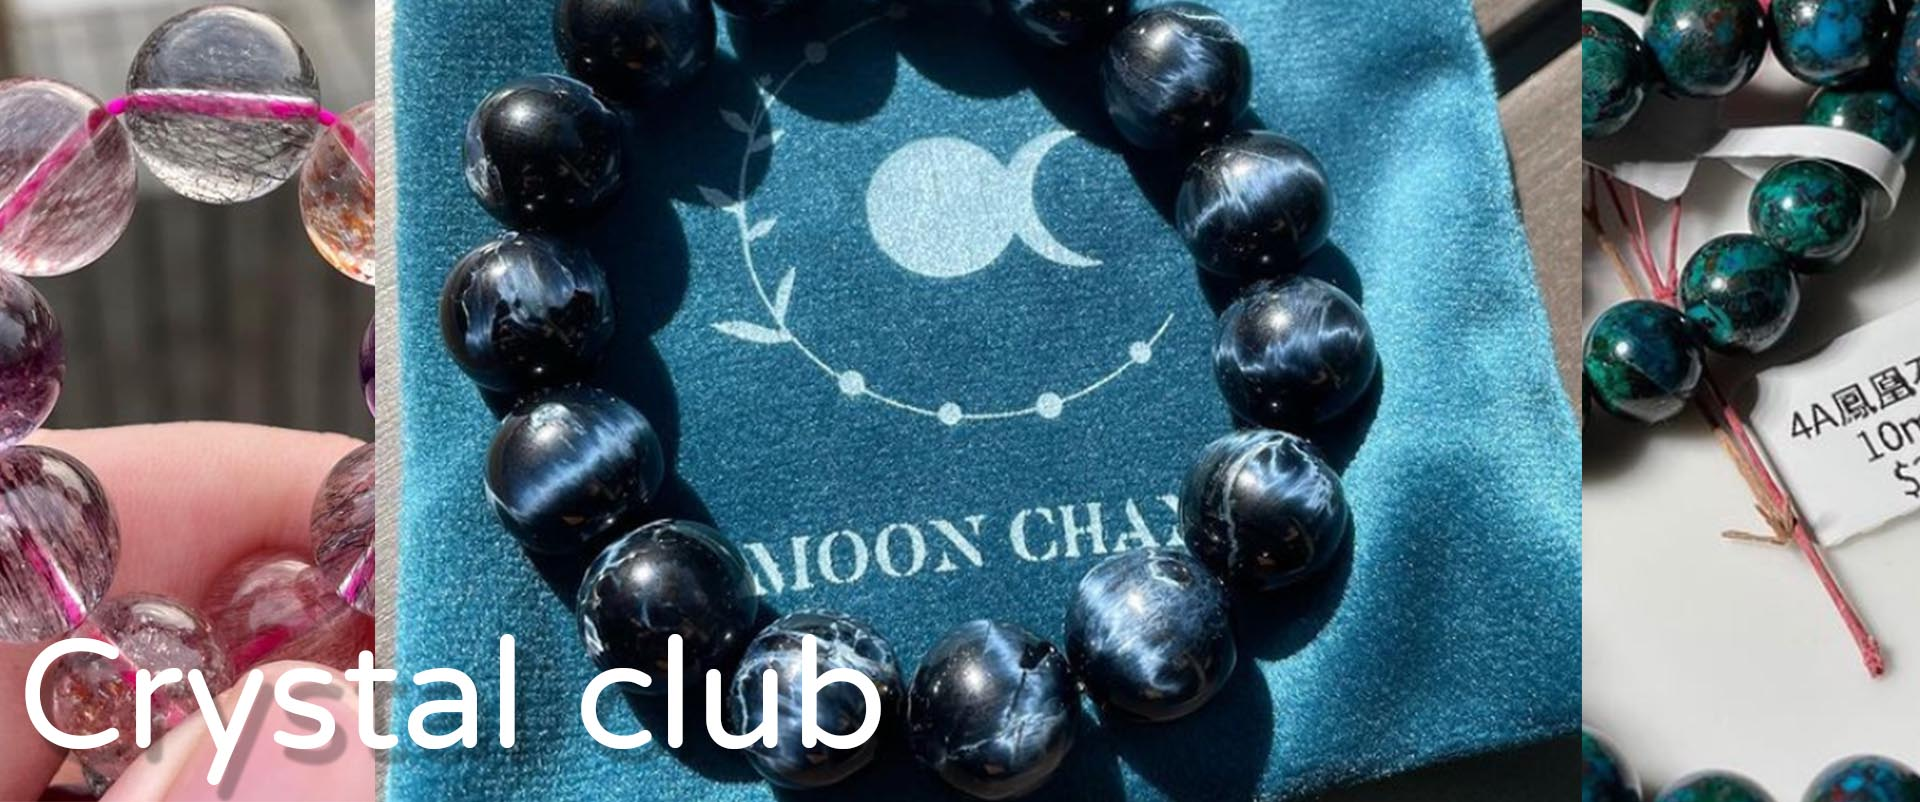
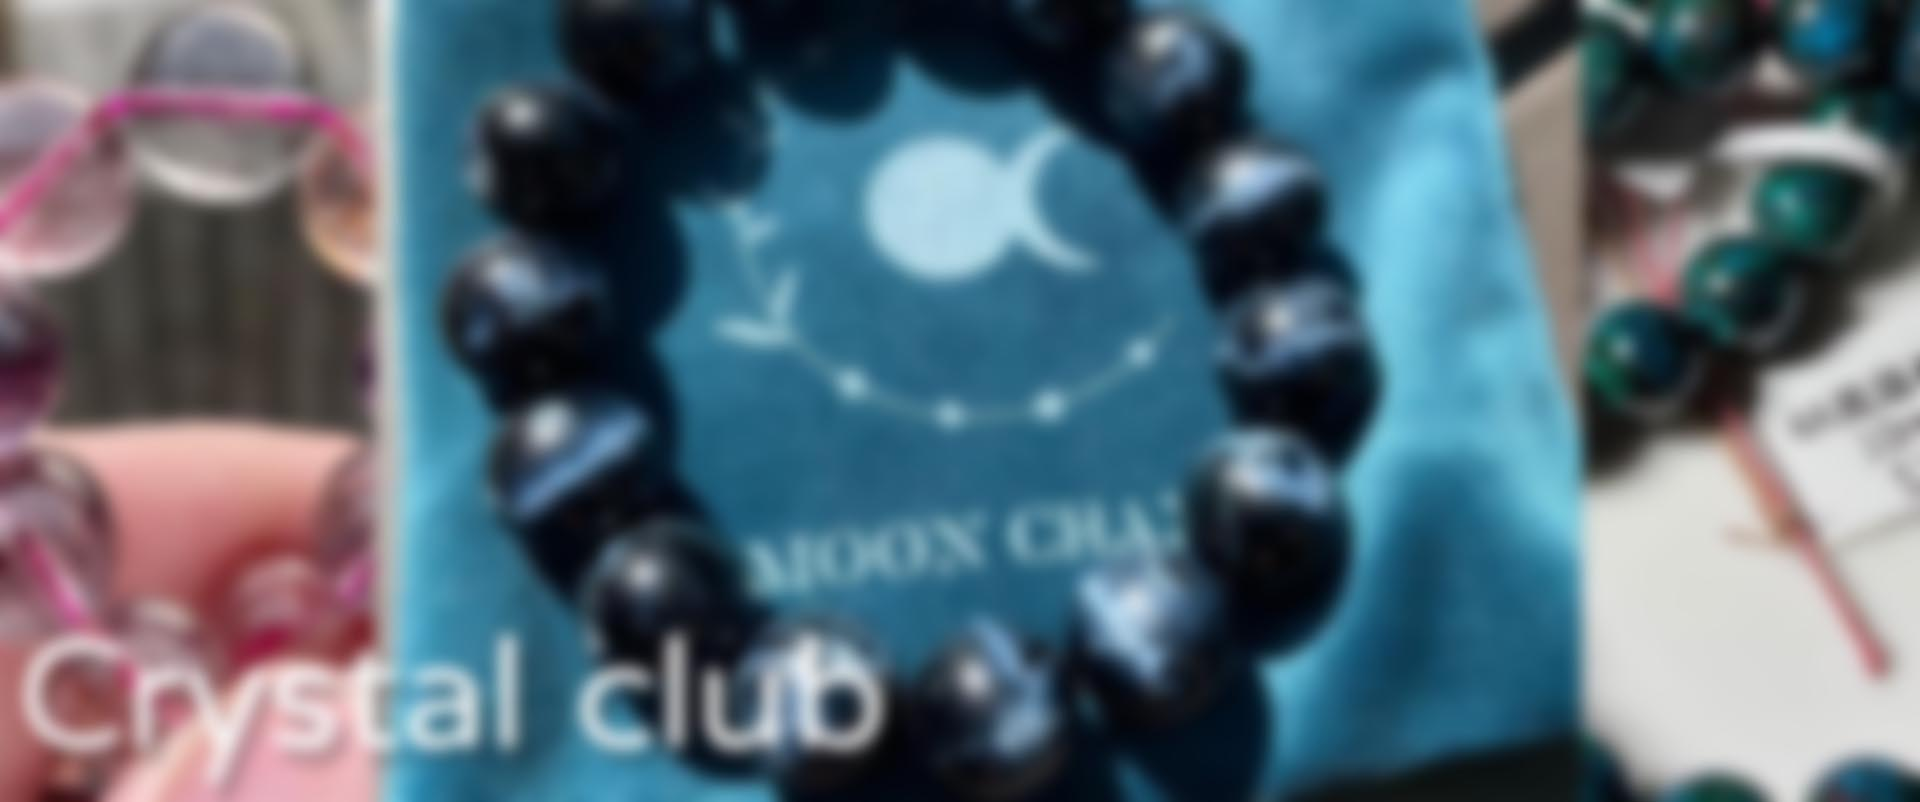
update

diff --git a/hw/moreInfo.html b/hw/moreInfo.html
@@ -1,0 +1,134 @@
+<!DOCTYPE html>
+<html lang="en">
+<head>
+    <meta charset="UTF-8">
+    <meta http-equiv="X-UA-Compatible" content="IE=edge">
+    <meta name="viewport" content="width=device-width, initial-scale=1.0">
+    <title>Crystal club - about us</title>
+
+    <link rel="stylesheet" href="https://fonts.googleapis.com/css?family=Audiowide">
+    <link rel="stylesheet" href="./css/page.css">
+</head>
+<body>
+    
+    <div class="headingNav">
+        <div style="display: flex; align-items: center; width: 50%;">
+            <img src="./image/logoMoon.png" alt="" width="80px" height="auto" >
+
+            <div>
+                <h1 class="headingClass" ><a href="./index.html" class="selectClass">Moonchant Crystal</a></h1>
+                <h4 style="margin-top: -30px;">Your crystal interest club</h4>
+            </div>
+
+        </div>
+    
+        <div style="display: flex; justify-content: space-around;">
+    
+            <h3 style="margin-right: 15px;">
+                <a href="./aboutus.html" class="selectClass">About us</a>
+            </h3>
+    
+            <h3 style="margin-right: 15px;">
+                <a href="./gallery.html" class="selectClass">Gallery</a>
+            </h3>
+    
+            <h3 style="margin-right: 15px;">
+                <a href="./contact.html" class="selectClass">Contact</a>
+            </h3>
+
+            <h3 style="margin-right: 15px;"> 
+                <a href="./playZone.html" class="selectClass">PlayZone</a>
+            </h3>
+
+            <h3 style="margin-right: 15px;">
+                <a href="./findStone.html" class="selectClass">Blog</a>
+            </h3>
+
+            <h3>
+                <a href="./moreInfo.html" class="selectClass">Introduce</a>
+            </h3>
+    
+        </div>
+            
+    </div>
+
+    <div class="contectSection paddClass">
+
+        <div style="display: flex; justify-content: space-around; flex-wrap: wrap; margin-top: 50px; margin-bottom: 50px;">
+
+            <div style="width: 500px;">
+                <img src="./image/dm1.jpg" alt="" width="500px" height="500px" style="border-radius: 25px;">
+            </div>
+
+            <div style="width: 50%;">
+                <h1 style="text-align: center; color: white; font-size: 5vw;" >閃靈鑽咩黎？</h1>
+                <h3 style="text-align: center; font-size: 2vw;">
+                    閃靈鑚又稱海基瑪/赫基蒙鑽石，以往產自紐約赫基蒙地區，其後亦在巴基斯坦發現。有一説只有紐約赫基蒙出產才可稱作閃靈鑽，當中爭議本篇不作詳述。
+                </h3>
+            </div>
+
+        </div>
+
+        <hr>
+
+        <div style="display: flex; justify-content: space-around; flex-wrap: wrap; margin-top: 50px; margin-bottom: 50px;">
+
+            <div style="width: 50%;">
+                <h1 style="text-align: center; color: white; font-size: 5vw;" >有咩用？</h1>
+                <h3 style="text-align: center; font-size: 2vw;">
+                    傳說在亞特蘭提斯時期人們會利用閃靈鑽作治療之用。由於閃靈鑽頻率極高，有助清除能量阻塞，促進身體療癒的效果。現時亦有利用閃露鑽加水噴在水晶上作淨化。（算係新興方法）
+                </h3>
+            </div>
+
+            <div style="width: 500px;">
+                <img src="./image/dm2.jpg" alt="" width="500px" height="500px" style="border-radius: 25px;">
+            </div>
+
+        </div>
+
+        <hr>
+
+        <div style="display: flex; justify-content: space-around; flex-wrap: wrap; margin-top: 50px; margin-bottom: 50px;">
+
+            <div style="width: 500px;">
+                <img src="./image/dm3.jpg" alt="" width="500px" height="500px" style="border-radius: 25px;">
+            </div>
+
+            <div style="width: 50%;">
+                <h1 style="text-align: center; color: white; font-size: 5vw;" >點為之上品嘅閃靈鑽？</h1>
+                <h3 style="text-align: center; font-size: 2vw;">
+                    主要從晶體清晰度、水膽及巴基斯坦獨有的油膽作參考。 晶體愈清，其質素愈高。而晶體中橫紋多為上品。(有齊油膽、水膽同時晶清算係收藏級）
+                </h3>
+            </div>
+
+        </div>
+
+        <hr>
+
+        <div style="display: flex; justify-content: space-around; flex-wrap: wrap; margin-top: 50px; margin-bottom: 50px;">
+
+            <div style="width: 50%;">
+                <h1 style="text-align: center; color: white; font-size: 5vw;" >水膽</h1>
+                <h3 style="text-align: center; font-size: 2vw;">
+                    晶體裏有水珠在內晃動的感覺，實際上水珠是二氧化碳在二相包裹體的效果。
+                </h3>
+            </div>
+
+            <div style="width: 500px;">
+                <img src="./image/water5.png" alt="" width="500px" height="500px" style="border-radius: 25px;">
+            </div>
+
+        </div>
+
+    </div>
+  
+    <div class="footerClass">
+
+        <div class="paddClass">
+            <h4 style="color: black; margin: 0;">ITE3006: IT Essentials - Web</h4>
+        </div>
+
+    </div>
+    
+</body>
+</html>

diff --git a/hw/index.html b/hw/index.html
@@ -42,8 +42,12 @@
                 <a href="./playZone.html" class="selectClass">PlayZone</a>
             </h3>
 
+            <h3 style="margin-right: 15px;">
+                <a href="./findStone.html" class="selectClass">Blog</a>
+            </h3>
+
             <h3>
-                <a href="./findStone.html" class="selectClass">Search</a>
+                <a href="./moreInfo.html" class="selectClass">Introduce</a>
             </h3>
     
         </div>
@@ -76,46 +80,49 @@
         <div style="display: flex; justify-content: space-around; flex-wrap: wrap;">
 
             <div style="text-align: center;">
-               <h1>Some Data</h1>
-               <img src="./image/caro.jpg" width="300px" height="300px" style="border-radius: 50%;" alt="">
-               <h1>Some text</h1>
+               <h1>手鏈</h1>
+               <img src="./image/ind2.jpg" width="300px" height="300px" style="border-radius: 50%;" alt="">
+               <h1>成為矚目焦點</h1>
             </div>
             
             <div style="text-align: center;">
-                <h1>Some Data</h1>
-                <img src="./image/caro.jpg" width="300px" height="300px" style="border-radius: 50%;" alt="">
-                <h1>Some text</h1>
+                <h1>原石</h1>
+                <img src="./image/ind3.jpg" width="300px" height="300px" style="border-radius: 50%;" alt="">
+                <h1>裝點生活空間</h1>
             </div>
             
             <div style="text-align: center;">
-                <h1>Some Data</h1>
-                <img src="./image/caro.jpg" width="300px" height="300px" style="border-radius: 50%;" alt="">
-                <h1>Some text</h1>
+                <h1>珠寶</h1>
+                <img src="./image/ind1.jpg" width="300px" height="300px" style="border-radius: 50%;" alt="">
+                <h1>巧奪天工的美鑽珠寶</h1>
             </div>
 
         </div>
 
     </div>
 
-    <div class="bottomSection">
+    <div class="bottomSection" style="margin-top: 10px;">
 
         <div style="display: flex; align-items: center;">
       
             <div>
-                <h1 style="text-align: left; color: white; font-size: 7vw; margin: 0;">Welcome there!</h1>
-                <h1 style="text-align: left; margin-top: -15px;">We are crystal interest club.</h1>
-                <h1 style="text-align: left; margin-top: -10px;">- 定期專業水晶專題</h1>
-                <h1 style="text-align: left; margin-top: -10px;">- 不定期水晶直播</h1> 
+                <h1 style="text-align: left; color: white; font-size: 7vw; margin: 0;">𝕸𝖔𝖔𝖓 𝕮𝖍𝖆𝖓𝖐❥月亮頌🌙</h1>
             </div>
 
         </div> 
 
         <div style="width: 500px; height: auto;">
             <img src="./image/WhatsApp Image 2021-11-21 at 23.05.44.png" alt="" width="100%" height="auto"> 
-        </div>  
+        </div> 
 
+        
     </div>
-
+    
+    <div style="padding-bottom: 50px; text-align: center;">
+        <a href="./findStone.html">
+            <h1 style="text-align: center; color: white; font-size: 6vw; margin: 0;">See more</h1>
+        </a>
+    </div>
     <div class="footerClass">
 
         <div class="paddClass">

diff --git a/hw/gallery.html b/hw/gallery.html
@@ -40,8 +40,12 @@
                 <a href="./playZone.html" class="selectClass">PlayZone</a>
             </h3>
 
+            <h3 style="margin-right: 15px;">
+                <a href="./findStone.html" class="selectClass">Blog</a>
+            </h3>
+
             <h3>
-                <a href="./findStone.html" class="selectClass">Search</a>
+                <a href="./moreInfo.html" class="selectClass">Introduce</a>
             </h3>
     
         </div>
@@ -60,11 +64,11 @@
         <div class="bottomSection" style="margin-top: 50px;">
             <img src="./image/WhatsApp Image 2021-11-21 at 23.05.45.jpeg" alt="" width="500px" height="500px">
             <img src="./image/WhatsApp Image 2021-11-21 at 23.05.42 (1).jpeg" alt="" width="500px" height="500px">
-            <img src="./image/WhatsApp Image 2021-11-21 at 23.05.48.jpeg" alt="" width="500px" height="500px">
+            <img src="./image/WhatsApp Image 2021-11-21 at 23.05.39.jpeg" alt="" width="500px" height="500px">
         </div>
 
         <h1 class="paddClass">Video:</h1>
-        <iframe width="100%" height="900px" src="https://www.youtube.com/embed/O_vMqGuoxv8" title="YouTube video player" frameborder="0" allow="accelerometer; autoplay; clipboard-write; encrypted-media; gyroscope; picture-in-picture" allowfullscreen></iframe>
+        <iframe width="100%" height="900px" src="https://www.youtube.com/embed/yuHbb9hBVqo" title="YouTube video player" frameborder="0" allow="accelerometer; autoplay; clipboard-write; encrypted-media; gyroscope; picture-in-picture" allowfullscreen></iframe>
     </div>
 
     

diff --git a/hw/playZone.html b/hw/playZone.html
@@ -40,8 +40,12 @@
                 <a href="./playZone.html" class="selectClass">PlayZone</a>
             </h3>
 
+            <h3 style="margin-right: 15px;">
+                <a href="./findStone.html" class="selectClass">Blog</a>
+            </h3>
+
             <h3>
-                <a href="./findStone.html" class="selectClass">Search</a>
+                <a href="./moreInfo.html" class="selectClass">Introduce</a>
             </h3>
     
         </div>
@@ -51,6 +55,10 @@
     <div class="contectSection paddClass">  
     </div>
     <canvas id="myCanvas"></canvas>
+
+    <div style="display:none;">
+        <img id="source" src="./image/caro.jpg" width="300" height="227" style="filter: blur(8px);">
+    </div>
 
    
 

diff --git a/hw/js/findStone.js b/hw/js/findStone.js
@@ -12,7 +12,6 @@ let data = [
   { name: "新手指南: 金草莓？", title: "係我眼中都係愛不惜手嘅寶貝✨實在冇必要因為咁而傷和氣呢～", url: "https://www.instagram.com/p/CPxtIR1jme8/", imgScr:"./image/b4.jpg"},
   { name: "金運石的五個驚人冷知識", title: "睇完哩五個冷知識有咩感覺？", url: "https://www.instagram.com/p/CSHFPpOpjT2/", imgScr:"./image/b5.jpg"},
 
-
 ];
 
 // active function when user type on the input box
@@ -50,4 +49,4 @@ function genBox(data) {
   boxbox.innerHTML = str;
 }
 
-genBox(data);
+window.onload = () => genBox(data);

diff --git a/hw/js/playZone.js b/hw/js/playZone.js
@@ -3,6 +3,8 @@ const canBox = document.getElementById("canBox");
 const canvas = document.getElementById("myCanvas");
 const ctx = canvas.getContext("2d");
 
+const img = document.getElementById('source');
+
 ctx.canvas.width  = window.innerWidth * 0.99;
 ctx.canvas.height = window.innerHeight * 0.85;
 
@@ -64,13 +66,13 @@ let ballArr = [
 
 function draw() {
     ctx.clearRect(0, 0, canvas.width, canvas.height);
+    ctx.drawImage(img, 10, 10);
 
     for(let i of ballArr){
         i.move();
     }
 
     window.requestAnimationFrame(draw);
-
 }
 
 window.requestAnimationFrame(draw);

diff --git a/hw/aboutus.html b/hw/aboutus.html
@@ -40,8 +40,12 @@
                 <a href="./playZone.html" class="selectClass">PlayZone</a>
             </h3>
 
+            <h3 style="margin-right: 15px;">
+                <a href="./findStone.html" class="selectClass">Blog</a>
+            </h3>
+
             <h3>
-                <a href="./findStone.html" class="selectClass">Search</a>
+                <a href="./moreInfo.html" class="selectClass">Introduce</a>
             </h3>
     
         </div>

diff --git a/hw/contact.html b/hw/contact.html
@@ -40,8 +40,12 @@
                 <a href="./playZone.html" class="selectClass">PlayZone</a>
             </h3>
 
+            <h3 style="margin-right: 15px;">
+                <a href="./findStone.html" class="selectClass">Blog</a>
+            </h3>
+
             <h3>
-                <a href="./findStone.html" class="selectClass">Search</a>
+                <a href="./moreInfo.html" class="selectClass">Introduce</a>
             </h3>
     
         </div>

diff --git a/hw/findStone.html b/hw/findStone.html
@@ -41,8 +41,12 @@
                 <a href="./playZone.html" class="selectClass">PlayZone</a>
             </h3>
 
+            <h3 style="margin-right: 15px;">
+                <a href="./findStone.html" class="selectClass">Blog</a>
+            </h3>
+
             <h3>
-                <a href="./findStone.html" class="selectClass">Search</a>
+                <a href="./moreInfo.html" class="selectClass">Introduce</a>
             </h3>
     
         </div>

diff --git a/hw/submitSuccess.html b/hw/submitSuccess.html
@@ -40,8 +40,12 @@
                 <a href="./playZone.html" class="selectClass">PlayZone</a>
             </h3>
 
+            <h3 style="margin-right: 15px;">
+                <a href="./findStone.html" class="selectClass">Blog</a>
+            </h3>
+
             <h3>
-                <a href="./findStone.html" class="selectClass">Search</a>
+                <a href="./moreInfo.html" class="selectClass">Introduce</a>
             </h3>
 
              
